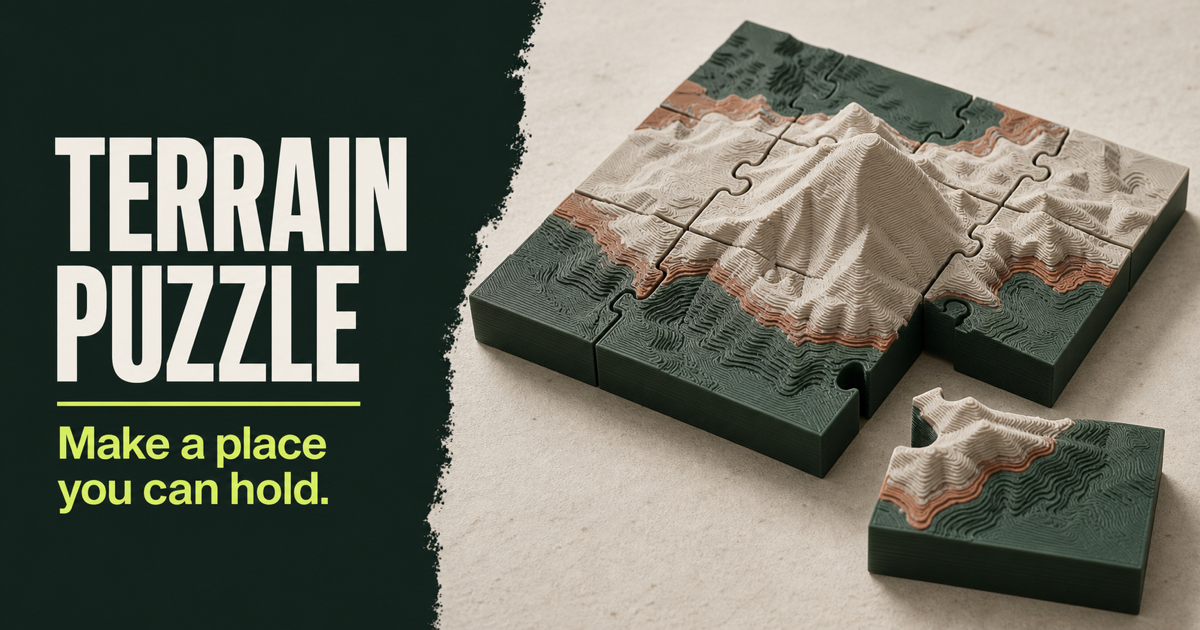
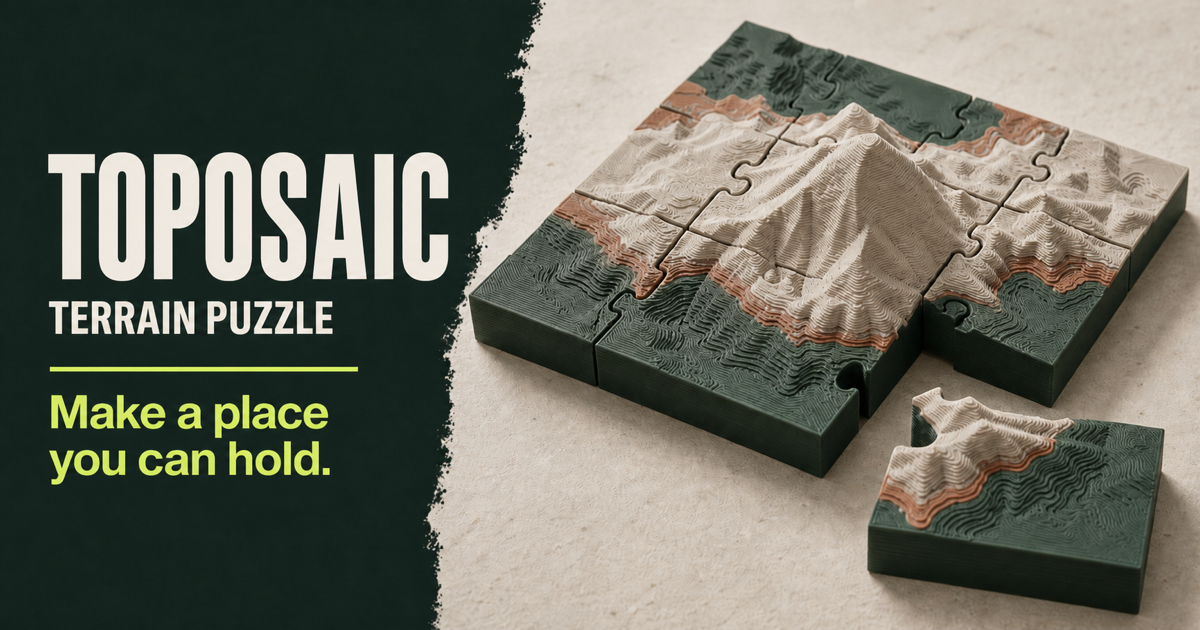
Rename product to TopoSaic

diff --git a/app/terrain-studio.tsx b/app/terrain-studio.tsx
@@ -1142,13 +1142,13 @@ export function TerrainStudio() {
   return (
     <main className="studio">
       <header className="topbar">
-        <a className="brand" href="#" aria-label="Terrain Puzzle Studio home">
+        <a className="brand" href="#" aria-label="TopoSaic home">
           <span className="brand-mark" aria-hidden="true">
-            T6
+            TS
           </span>
           <span>
-            Terrain Puzzle
-            <small>Rust mesh studio</small>
+            TopoSaic
+            <small>Terrain Puzzle</small>
           </span>
         </a>
         <div className="topbar-actions">

diff --git a/app/layout.tsx b/app/layout.tsx
@@ -12,9 +12,9 @@ export async function generateMetadata(): Promise<Metadata> {
     requestHeaders.get("x-forwarded-proto") ??
     (host.startsWith("localhost") ? "http" : "https");
   const origin = `${protocol}://${host}`;
-  const title = "Terrain Puzzle Studio";
+  const title = "TopoSaic — Terrain Puzzle";
   const description =
-    "Turn a place into a printable topographic puzzle with a Rust mesh generator.";
+    "Turn a place into a printable terrain puzzle with TopoSaic's Rust mesh generator.";
 
   return {
     metadataBase: new URL(origin),
@@ -29,7 +29,7 @@ export async function generateMetadata(): Promise<Metadata> {
           url: `${origin}/og.png`,
           width: 1200,
           height: 630,
-          alt: "A 3D-printed mountain puzzle beside the Terrain Puzzle title",
+          alt: "A 3D-printed mountain puzzle beside the TopoSaic title and Terrain Puzzle byline",
         },
       ],
     },

diff --git a/tests/ui/control-tabs.spec.ts b/tests/ui/control-tabs.spec.ts
@@ -4,6 +4,12 @@ test("switches between the reflowed control panels", async ({ page }) => {
   await page.goto("/");
 
   const generate = page.getByRole("button", { name: /^Generate/ });
+  await expect(page.getByRole("link", { name: "TopoSaic home" })).toContainText(
+    "TopoSaic",
+  );
+  await expect(page.getByRole("link", { name: "TopoSaic home" })).toContainText(
+    "Terrain Puzzle",
+  );
   await expect(
     page.getByRole("heading", { name: "Shape your terrain" }),
   ).toBeVisible();

diff --git a/desktop/index.html b/desktop/index.html
@@ -5,9 +5,9 @@
     <meta name="viewport" content="width=device-width, initial-scale=1.0" />
     <meta
       name="description"
-      content="Create printable terrain puzzles from real map data."
+      content="TopoSaic creates printable terrain puzzles from real map data."
     />
-    <title>Terrain Puzzle Studio</title>
+    <title>TopoSaic — Terrain Puzzle</title>
   </head>
   <body>
     <div id="root"></div>

diff --git a/crates/terrain-core/src/lib.rs b/crates/terrain-core/src/lib.rs
@@ -2023,7 +2023,7 @@ fn generate_project_inner(
     let project_path = output_dir.join(if spec.solid_model {
         "terrain-solid.3mf"
     } else {
-        "terrain-puzzle.3mf"
+        "toposaic.3mf"
     });
     let mut project_writer = ThreeMfWriter::new(spec, &project_path)?;
     for index in 0..object_count {
@@ -2081,7 +2081,7 @@ fn generate_project_inner(
     artifacts.push(file_artifact(&preview_path, "application/json")?);
 
     let manifest = ProjectManifest {
-        generator: format!("terrain-puzzle/{}", env!("CARGO_PKG_VERSION")),
+        generator: format!("toposaic/{}", env!("CARGO_PKG_VERSION")),
         terrain_source: height_field
             .map(|field| field.source.clone())
             .unwrap_or_else(|| "deterministic-preview-surface".into()),
@@ -2911,7 +2911,7 @@ fn write_binary_stl(mesh: &Mesh, path: &Path) -> Result<()> {
         File::create(path).with_context(|| format!("create STL {}", path.display()))?,
     );
     let mut header = [0_u8; 80];
-    let label = format!("Terrain Puzzle — {}", mesh.name);
+    let label = format!("TopoSaic — {}", mesh.name);
     let bytes = label.as_bytes();
     header[..bytes.len().min(80)].copy_from_slice(&bytes[..bytes.len().min(80)]);
     writer.write_all(&header)?;
@@ -2985,8 +2985,8 @@ impl<'a> ThreeMfWriter<'a> {
             zip.write_all(
             r#"<?xml version="1.0" encoding="UTF-8"?>
 <model unit="millimeter" xml:lang="en-US" xmlns="http://schemas.microsoft.com/3dmanufacturing/core/2015/02" xmlns:m="http://schemas.microsoft.com/3dmanufacturing/material/2015/02" requiredextensions="m">
-  <metadata name="Title">Terrain Puzzle</metadata>
-  <metadata name="Designer">Terrain Puzzle Generator</metadata>
+  <metadata name="Title">TopoSaic</metadata>
+  <metadata name="Designer">TopoSaic Terrain Puzzle Generator</metadata>
   <resources>
 "#
                 .as_bytes(),
@@ -2995,8 +2995,8 @@ impl<'a> ThreeMfWriter<'a> {
             zip.write_all(
             r#"<?xml version="1.0" encoding="UTF-8"?>
 <model unit="millimeter" xml:lang="en-US" xmlns="http://schemas.microsoft.com/3dmanufacturing/core/2015/02">
-  <metadata name="Title">Terrain Puzzle</metadata>
-  <metadata name="Designer">Terrain Puzzle Generator</metadata>
+  <metadata name="Title">TopoSaic</metadata>
+  <metadata name="Designer">TopoSaic Terrain Puzzle Generator</metadata>
   <resources>
 "#
                 .as_bytes(),
@@ -3391,7 +3391,7 @@ mod tests {
     #[test]
     fn project_writes_print_artifacts() {
         let output_dir =
-            std::env::temp_dir().join(format!("terrain-puzzle-core-test-{}", std::process::id()));
+            std::env::temp_dir().join(format!("toposaic-core-test-{}", std::process::id()));
         if output_dir.exists() {
             std::fs::remove_dir_all(&output_dir).unwrap();
         }
@@ -3404,7 +3404,7 @@ mod tests {
         };
         let manifest = generate_project(&spec, &output_dir).unwrap();
 
-        assert!(output_dir.join("terrain-puzzle.3mf").is_file());
+        assert!(output_dir.join("toposaic.3mf").is_file());
         assert!(output_dir.join("piece-1-1.stl").is_file());
         assert!(output_dir.join("preview.json").is_file());
         assert_eq!(
@@ -3444,7 +3444,7 @@ mod tests {
         let manifest = generate_project(&spec, &output_dir).unwrap();
         assert!(output_dir.join("terrain-solid.stl").is_file());
         assert!(output_dir.join("terrain-solid.3mf").is_file());
-        assert!(!output_dir.join("terrain-puzzle.3mf").exists());
+        assert!(!output_dir.join("toposaic.3mf").exists());
         assert!(!output_dir.join("piece-1-1.stl").exists());
         assert_eq!(
             manifest
@@ -3490,7 +3490,7 @@ mod tests {
     #[test]
     fn color_project_writes_standard_3mf_properties_and_preview() {
         let output_dir =
-            std::env::temp_dir().join(format!("terrain-puzzle-color-test-{}", std::process::id()));
+            std::env::temp_dir().join(format!("toposaic-color-test-{}", std::process::id()));
         if output_dir.exists() {
             std::fs::remove_dir_all(&output_dir).unwrap();
         }
@@ -3532,7 +3532,7 @@ mod tests {
 
         generate_project_with_fields(&spec, &height, Some(&surface), &output_dir).unwrap();
 
-        let file = File::open(output_dir.join("terrain-puzzle.3mf")).unwrap();
+        let file = File::open(output_dir.join("toposaic.3mf")).unwrap();
         let mut archive = zip::ZipArchive::new(file).unwrap();
         let mut model = String::new();
         archive

diff --git a/apps/api/src/cache.rs b/apps/api/src/cache.rs
@@ -15,7 +15,7 @@ pub fn root() -> Result<PathBuf> {
     if let Some(value) = env::var_os("TERRAIN_CACHE_DIR").filter(|value| !value.is_empty()) {
         return Ok(PathBuf::from(value));
     }
-    ProjectDirs::from("com", "theatrus", "terrain-puzzle")
+    ProjectDirs::from("com", "theatrus", "toposaic")
         .map(|directories| directories.cache_dir().to_path_buf())
         .context("find the OS cache directory; set TERRAIN_CACHE_DIR to choose one")
 }
@@ -73,7 +73,7 @@ mod tests {
     #[test]
     fn atomically_stores_cached_input() {
         let directory =
-            std::env::temp_dir().join(format!("terrain-puzzle-cache-test-{}", Uuid::new_v4()));
+            std::env::temp_dir().join(format!("toposaic-cache-test-{}", Uuid::new_v4()));
         let path = directory.join("tiles").join("sample.bin");
         store(&path, b"first").unwrap();
         store(&path, b"second").unwrap();

diff --git a/apps/api/src/lib.rs b/apps/api/src/lib.rs
@@ -110,10 +110,10 @@ pub async fn run_with(data_dir: PathBuf, address: String) -> Result<()> {
         .with_context(|| format!("create jobs directory {}", jobs_dir.display()))?;
     std::fs::create_dir_all(&map_cache_dir)
         .with_context(|| format!("create map cache directory {}", map_cache_dir.display()))?;
-    let connection = Connection::open(data_dir.join("terrain-puzzle.sqlite3"))?;
+    let connection = Connection::open(data_dir.join("toposaic.sqlite3"))?;
     migrate(&connection)?;
     let geocoder = Client::builder()
-        .user_agent("terrain-puzzle/0.1 (+https://github.com/theatrus/terrain-puzzle)")
+        .user_agent("toposaic/0.1 (+https://github.com/theatrus/terrain-puzzle)")
         .timeout(Duration::from_secs(12))
         .build()?;
 

diff --git a/apps/api/src/surface.rs b/apps/api/src/surface.rs
@@ -498,7 +498,7 @@ fn fetch_osm_response(
     }
 
     let client = Client::builder()
-        .user_agent("terrain-puzzle/0.1 (+https://github.com/theatrus/terrain-puzzle)")
+        .user_agent("toposaic/0.1 (+https://github.com/theatrus/terrain-puzzle)")
         .timeout(Duration::from_secs(45))
         .build()
         .context("build OpenStreetMap client")?;
@@ -830,7 +830,7 @@ fn cached_world_cover_tile(tile_name: &str, cache_dir: &Path) -> Result<PathBuf>
     }
     let url = format!("{WORLD_COVER_BASE_URL}/{file_name}");
     let response = Client::builder()
-        .user_agent("terrain-puzzle/0.1 (+https://github.com/theatrus/terrain-puzzle)")
+        .user_agent("toposaic/0.1 (+https://github.com/theatrus/terrain-puzzle)")
         .timeout(Duration::from_secs(300))
         .build()
         .context("build ESA WorldCover client")?

diff --git a/apps/api/src/elevation.rs b/apps/api/src/elevation.rs
@@ -41,7 +41,7 @@ fn fetch_height_field_at_size(
 ) -> Result<HeightField> {
     let zoom = choose_zoom(spec, sample_width.max(sample_height));
     let client = Client::builder()
-        .user_agent("terrain-puzzle/0.1 (+local terrain mesh generator)")
+        .user_agent("toposaic/0.1 (+local terrain mesh generator)")
         .timeout(Duration::from_secs(20))
         .build()?;
     let mut tiles: HashMap<(u32, u32), RgbImage> = HashMap::new();

diff --git a/src-tauri/src/lib.rs b/src-tauri/src/lib.rs
@@ -24,5 +24,5 @@ pub fn run() {
             Ok(())
         })
         .run(tauri::generate_context!())
-        .expect("error while running Terrain Puzzle");
+        .expect("error while running TopoSaic");
 }

diff --git a/src-tauri/src/main.rs b/src-tauri/src/main.rs
@@ -1,3 +1,3 @@
 fn main() {
-    terrain_desktop_lib::run();
+    toposaic_desktop_lib::run();
 }

diff --git a/README.md b/README.md
@@ -1,6 +1,8 @@
-# Terrain Puzzle
+# TopoSaic
 
-Terrain Puzzle is a local-first topographic puzzle generator. A Rust service
+*Terrain Puzzle*
+
+TopoSaic is a local-first topographic puzzle generator. A Rust service
 samples worldwide elevation data, builds watertight pieces with round jigsaw
 tabs and sockets, and stores job state in SQLite. The web app lets you choose a
 place and tune the printable model, including the mesh detail and surface
@@ -131,9 +133,9 @@ SQLite and generated jobs live under `data/`, which Git ignores. Set
 
 Downloaded map inputs use the standard per-user cache path:
 
-- macOS: `~/Library/Caches/com.theatrus.terrain-puzzle`
-- Linux: `$XDG_CACHE_HOME/terrain-puzzle` or `~/.cache/terrain-puzzle`
-- Windows: `%LOCALAPPDATA%\theatrus\terrain-puzzle\cache`
+- macOS: `~/Library/Caches/com.theatrus.toposaic`
+- Linux: `$XDG_CACHE_HOME/toposaic` or `~/.cache/toposaic`
+- Windows: `%LOCALAPPDATA%\theatrus\toposaic\cache`
 
 Set `TERRAIN_CACHE_DIR` to override that path. The cache keeps elevation PNG
 tiles, full ESA WorldCover GeoTIFF tiles, and OpenStreetMap route responses.
@@ -186,7 +188,7 @@ credits recorded in their manifest or place those credits near the work. See
 
 ## License
 
-Terrain Puzzle source code and documentation are licensed under the
+TopoSaic source code and documentation are licensed under the
 [Apache License 2.0](LICENSE). Third-party software, the bundled font, and map
 data keep their own licenses; see [THIRD_PARTY_NOTICES.md](THIRD_PARTY_NOTICES.md)
 and [assets/fonts/OFL.txt](assets/fonts/OFL.txt).